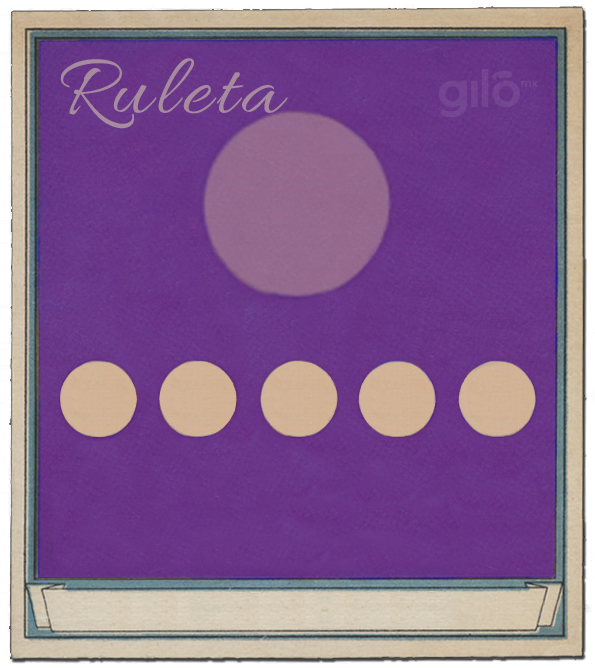
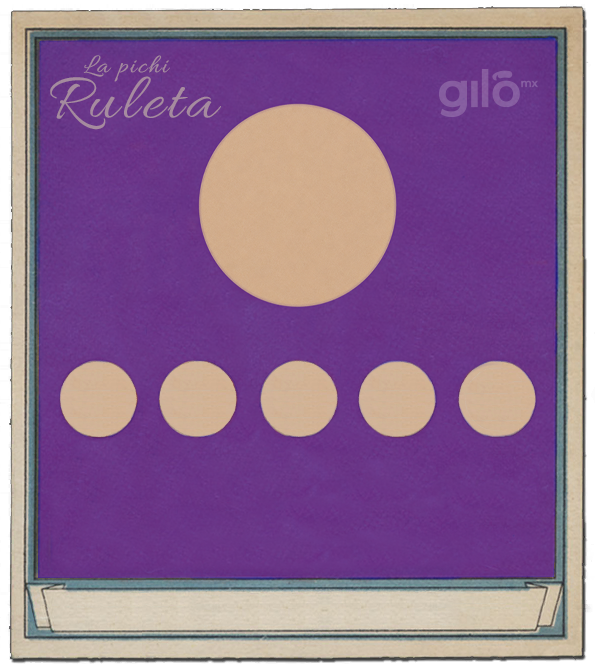
feat: update roulette card and Spanish America label

Changed region(s): [[0.0908, 0.0898, 0.6655, 0.479], [0.7261, 0.0898, 0.8773, 0.1796]]

diff --git a/ModLocalization.cs b/ModLocalization.cs
@@ -69,6 +69,8 @@ namespace Gilomx.CupheadBossRoulette
     {
         private readonly Dictionary<ModText, string> spanish =
             new Dictionary<ModText, string>();
+        private readonly Dictionary<ModText, string> spanishAmerica =
+            new Dictionary<ModText, string>();
         private readonly Dictionary<ModText, string> english =
             new Dictionary<ModText, string>();
         private readonly Dictionary<ModText, string> french =
@@ -97,6 +99,7 @@ namespace Gilomx.CupheadBossRoulette
         internal ModLocalization()
         {
             AddSpanishTexts();
+            AddSpanishAmericaTexts();
             AddEnglishTexts();
             AddFrenchTexts();
             AddItalianTexts();
@@ -114,8 +117,10 @@ namespace Gilomx.CupheadBossRoulette
         internal string Text(ModText id)
         {
             string value;
-            if ((CurrentLanguage == Localization.Languages.SpanishSpain ||
-                 CurrentLanguage == Localization.Languages.SpanishAmerica) &&
+            if (CurrentLanguage == Localization.Languages.SpanishAmerica &&
+                spanishAmerica.TryGetValue(id, out value))
+                return value;
+            if (CurrentLanguage == Localization.Languages.SpanishSpain &&
                 spanish.TryGetValue(id, out value))
                 return value;
             if (CurrentLanguage == Localization.Languages.English &&
@@ -284,6 +289,13 @@ namespace Gilomx.CupheadBossRoulette
             spanish[ModText.ChallengeNoEx] = "NO EX";
             spanish[ModText.ChallengeBlackAndWhite] = "BLANCO Y NEGRO";
             spanish[ModText.ChallengeNone] = "Nada";
+        }
+
+        private void AddSpanishAmericaTexts()
+        {
+            foreach (var pair in spanish)
+                spanishAmerica[pair.Key] = pair.Value;
+            spanishAmerica[ModText.ChallengeNoPeashooter] = "SIN PEASHOOTER";
         }
 
         private void AddEnglishTexts()

diff --git a/Plugin.cs b/Plugin.cs
@@ -15,7 +15,7 @@ namespace Gilomx.CupheadBossRoulette
     {
         public const string PluginGuid = "mx.gilomx.cuphead.bossroulette";
         public const string PluginName = "Gilomx Boss Roulette";
-        public const string PluginVersion = "0.5.119";
+        public const string PluginVersion = "0.5.120";
 
         private const float DesignWidth = 1280f;
         private const float DesignHeight = 720f;

diff --git a/PROJECT_HANDOFF.md b/PROJECT_HANDOFF.md
@@ -1,7 +1,7 @@
 # Cuphead Boss Roulette - Project Handoff
 
 Last updated: 2026-08-07
-Current local version: 0.5.119
+Current local version: 0.5.120
 
 This file is the working context for the next agent. Read it before changing the
 mod. The user has iterated on the layout by eye, so preserve all explicit
@@ -11,17 +11,19 @@ The accepted HUD architecture, layer matrix, layout invariants and extension
 checklist now live in [HUD_INTEGRATION.md](HUD_INTEGRATION.md). Read that guide
 before adding any new battle indicator.
 
-## Reviewed 12-language localization (0.5.119)
+## Spanish-America regional override (0.5.120)
 
-- All 12 submitted files were validated at 29/29 IDs with no blanks.
-- The ten non-Spanish tables use their reviewed independent catalogs.
-- `SpanishSpain` and `SpanishAmerica` submitted identical reviewed values
-  and share that reviewed table from 0.5.119 onward.
-- Notable Spanish changes include `FÁCIL`, `NO MINIAVIÓN`,
-  `SOLO BALAS DE MINIAVIÓN` and `SIN DISPARO NORMAL`.
-- An unknown future language alone falls back to Spanish.
-- Do not change approved wording to solve font or layout issues.
[1 lines of base64/hex data omitted]
+- `SpanishSpain` keeps `SIN DISPARO NORMAL` for
+  `challenge.no_peashooter`.
+- `SpanishAmerica` uses `SIN PEASHOOTER` for that one ID and inherits every
+  other value from the Spanish base dictionary.
+- The full active America table is in
+  `translations/translation_spanish_america.md`; the base/Spain table remains
+  in `translations/translation_spanish_shared.md`.
+- All other approved wording remains unchanged.
+- The card PNG was replaced at the user's request without changing any layout
+  coordinate or drawing logic.
[1 lines of base64/hex data omitted]
 
 ### Checklist localization layout (0.5.117)
 
@@ -63,11 +65,11 @@ dependencies.
 
 ## Current Git state
 
-This handoff documents the roulette implementation through version 0.5.119.
+This handoff documents the roulette implementation through version 0.5.120.
 Always inspect `git status` before editing, and do not reset, restore, or
 overwrite unrelated user changes.
 
-Localization activation is complete for Cuphead's 12 language enums. Version 0.5.119 uses reviewed deliveries for every language. Spanish Spain and Spanish America have identical reviewed values and therefore continue to share one dictionary.
+Localization activation is complete for Cuphead's 12 language enums. From 0.5.120, Spanish Spain uses the Spanish base dictionary while Spanish America clones that base and overrides only `ChallengeNoPeashooter` with `SIN PEASHOOTER`.
 
 ## Localization-safe internal model (0.5.109)
 
@@ -155,14 +157,13 @@ French now deliberately uses `ARME A/B`, `FACILE`, `NORMAL` and
 `NOCHMAL DREHEN`, `OHNE MINIBOMBEN` and `OHNE MASCHINENGEWEHR`.
 These reviewed values supersede all older wording in this handoff.
 
-## Reviewed shared Spanish localization (0.5.119)
+## Spanish localization with one regional override (0.5.120)
 
-`SpanishSpain` and `SpanishAmerica` supplied identical 29-value reviewed
-tables. Both enums still route to the same `spanish` dictionary, but that
-dictionary now uses the reviewed copy rather than the original 0.5.115 text.
-The active values are in `translations/translation_spanish_shared.md`; the
-two exact source deliveries remain in `translations/review_by_language/`.
-Do not introduce regional differences unless future deliveries diverge.
+`SpanishSpain` uses the reviewed base table. `SpanishAmerica` copies all
+base values during initialization and overrides only
+`ChallengeNoPeashooter` as `SIN PEASHOOTER`; Spain retains
+`SIN DISPARO NORMAL`. Keep this distinction when changing or validating
+Spanish localization.
 
 ## Reviewed Korean and five newly active languages (0.5.118)
 

diff --git a/LOCALIZATION_CATALOG.md b/LOCALIZATION_CATALOG.md
@@ -1,6 +1,6 @@
 # Catálogo de localización
 
-Estado: **los 12 idiomas de Cuphead usan sus entregas revisadas en 0.5.119**. Las propuestas de `SpanishSpain` y `SpanishAmerica` son idénticas, por lo que ambas variantes comparten una sola tabla revisada. `LOCALIZATION_TRANSLATIONS.md` queda sólo como registro de borradores históricos.
+Estado: **los 12 idiomas de Cuphead tienen tablas activas en 0.5.120**. `SpanishSpain` usa la tabla española base; `SpanishAmerica` hereda esa tabla y cambia sólo `challenge.no_peashooter` a `SIN PEASHOOTER`. `LOCALIZATION_TRANSLATIONS.md` queda como registro histórico.
 
 ## Alcance visible verificado en 0.5.110 y aplicado en 0.5.111
 
@@ -23,7 +23,7 @@ herramientas técnicas y no pertenecen a la traducción pública de la primera
 versión. `LOCALIZATION_TRANSLATIONS.md` conserva propuestas históricas, pero
 sus filas adicionales no son una solicitud de traducción.
 
-Las diez tablas no españolas activas están versionadas como `translations/translation_<idioma>.md`; las dos variantes de español comparten `translations/translation_spanish_shared.md`. Las 12 entregas revisadas completas se conservan en `translations/review_by_language/`. Cada grupo contiene exactamente 29 valores y se carga sólo para su enum.
+Las diez tablas no españolas activas están versionadas como `translations/translation_<idioma>.md`; `SpanishSpain` usa `translations/translation_spanish_shared.md` como base y `SpanishAmerica` registra su tabla efectiva en `translations/translation_spanish_america.md`. Las 12 entregas revisadas completas se conservan en `translations/review_by_language/`. Cada grupo contiene exactamente 29 valores y se carga sólo para su enum.
 
 ## Base técnica implementada en 0.5.109
 

diff --git a/translations/translation_spanish_america.md b/translations/translation_spanish_america.md
@@ -1,8 +1,9 @@
-# Traducción española base y de España
+# Traducción activa — SpanishAmerica
 
-Estado: **activa para `SpanishSpain` y como base de `SpanishAmerica` en 0.5.120**.
+Estado: **revisión regional activa en la versión 0.5.120**.
 
-`SpanishAmerica` hereda estos valores, excepto `challenge.no_peashooter`, que se registra por separado como `SIN PEASHOOTER`.
+Comparte los demás valores con español de España, pero el reto
+`challenge.no_peashooter` usa `SIN PEASHOOTER` por decisión posterior.
 
 | ID | Traducción aprobada |
 | --- | --- |
@@ -32,6 +33,6 @@ Estado: **activa para `SpanishSpain` y como base de `SpanishAmerica` en 0.5.120*
 | `challenge.no_mini_plane` | NO MINIAVIÓN |
 | `challenge.mini_plane_only` | SOLO BALAS DE MINIAVIÓN |
 | `challenge.no_bombs` | NO DISPARO BOMBAS |
-| `challenge.no_peashooter` | SIN DISPARO NORMAL |
+| `challenge.no_peashooter` | SIN PEASHOOTER |
 | `challenge.no_ex` | NO EX |
 | `challenge.black_and_white` | BLANCO Y NEGRO |

diff --git a/CHANGELOG.md b/CHANGELOG.md
@@ -3,6 +3,19 @@
 Este documento resume los cambios funcionales de Gilomx Boss Roulette. Las
 versiones corresponden al número mostrado por BepInEx al cargar el mod.
 
+## 0.5.120 — 2026-08-07
+
+### Texto regional y nuevo fondo de la ruleta
+
+- En `SpanishAmerica`, el reto `NoPeashooter` cambia de
+  `SIN DISPARO NORMAL` a `SIN PEASHOOTER`.
+- `SpanishSpain` conserva `SIN DISPARO NORMAL`; una tabla regional hereda
+  el resto del español base y sobrescribe únicamente esta cadena.
+- `assets/card/roulette-card.png` se reemplaza por el nuevo fondo de 595×668
+  proporcionado por el usuario. No cambian coordenadas, tamaños, textos,
+  animaciones ni lógica de la tarjeta.
[1 lines of base64/hex data omitted]
+
 ## 0.5.119 — 2026-08-07
 
 ### Propuestas revisadas de español activas

diff --git a/LOCALIZATION_TRANSLATIONS.md b/LOCALIZATION_TRANSLATIONS.md
@@ -1,6 +1,6 @@
 # Borrador de traducciones de la interfaz
 
-Estado: **registro histórico, sustituido por las 12 entregas revisadas activas en 0.5.119**. Las tablas activas viven en `translations/`; los originales revisados se conservan en `translations/review_by_language/`. Las propuestas de ambas variantes de español son idénticas y comparten una sola tabla activa.
+Estado: **registro histórico, sustituido por las tablas activas de 0.5.120**. `SpanishSpain` conserva `SIN DISPARO NORMAL`; `SpanishAmerica` usa la revisión posterior `SIN PEASHOOTER`. Los catálogos vigentes viven en `translations/`.
 
 > **Importante:** este archivo conserva propuestas históricas para IDs de la
 > interfaz antigua. La lista vigente para revisión pública es

diff --git a/translations/review_by_language/translation_spanish_america.md b/translations/review_by_language/translation_spanish_america.md
@@ -33,7 +33,7 @@ La tabla siguiente conserva sin cambios los 29 campos y el español de referenci
 | `challenge.no_mini_plane` | No mini avión | Nombre de reto en el HUD | NO MINIAVIÓN |
 | `challenge.mini_plane_only` | Solo mini avión | Nombre de reto en el HUD | SOLO BALAS DE MINIAVIÓN |
 | `challenge.no_bombs` | No disparo bombas | Nombre de reto en el HUD | NO DISPARO BOMBAS |
-| `challenge.no_peashooter` | No disparo Peashooter | Nombre de reto en el HUD | SIN DISPARO NORMAL |
+| `challenge.no_peashooter` | No disparo Peashooter | Nombre de reto en el HUD | SIN PEASHOOTER |
 | `challenge.no_ex` | No EX | Nombre de reto en el HUD | NO EX |
 | `challenge.black_and_white` | Blanco y negro | Nombre de reto en el HUD | BLANCO Y NEGRO |
 

diff --git a/translations/review_by_language/README.md b/translations/review_by_language/README.md
@@ -6,7 +6,7 @@ Cada archivo contiene exactamente los 29 IDs públicos del mod y conserva la
 entrega revisada completa, incluida la referencia de cadenas originales de
 Cuphead. Las doce entregas están activas desde la versión 0.5.119.
 
-Las entregas de `SpanishSpain` y `SpanishAmerica` son idénticas. Ambas alimentan `translations/translation_spanish_shared.md` y se conservan también por separado en esta carpeta para verificar su procedencia.
+La revisión posterior de `SpanishAmerica` cambia sólo `challenge.no_peashooter` a `SIN PEASHOOTER`; `SpanishSpain` conserva `SIN DISPARO NORMAL`. El archivo americano de esta carpeta ya incorpora esa corrección.
 
 ## Archivos
 
